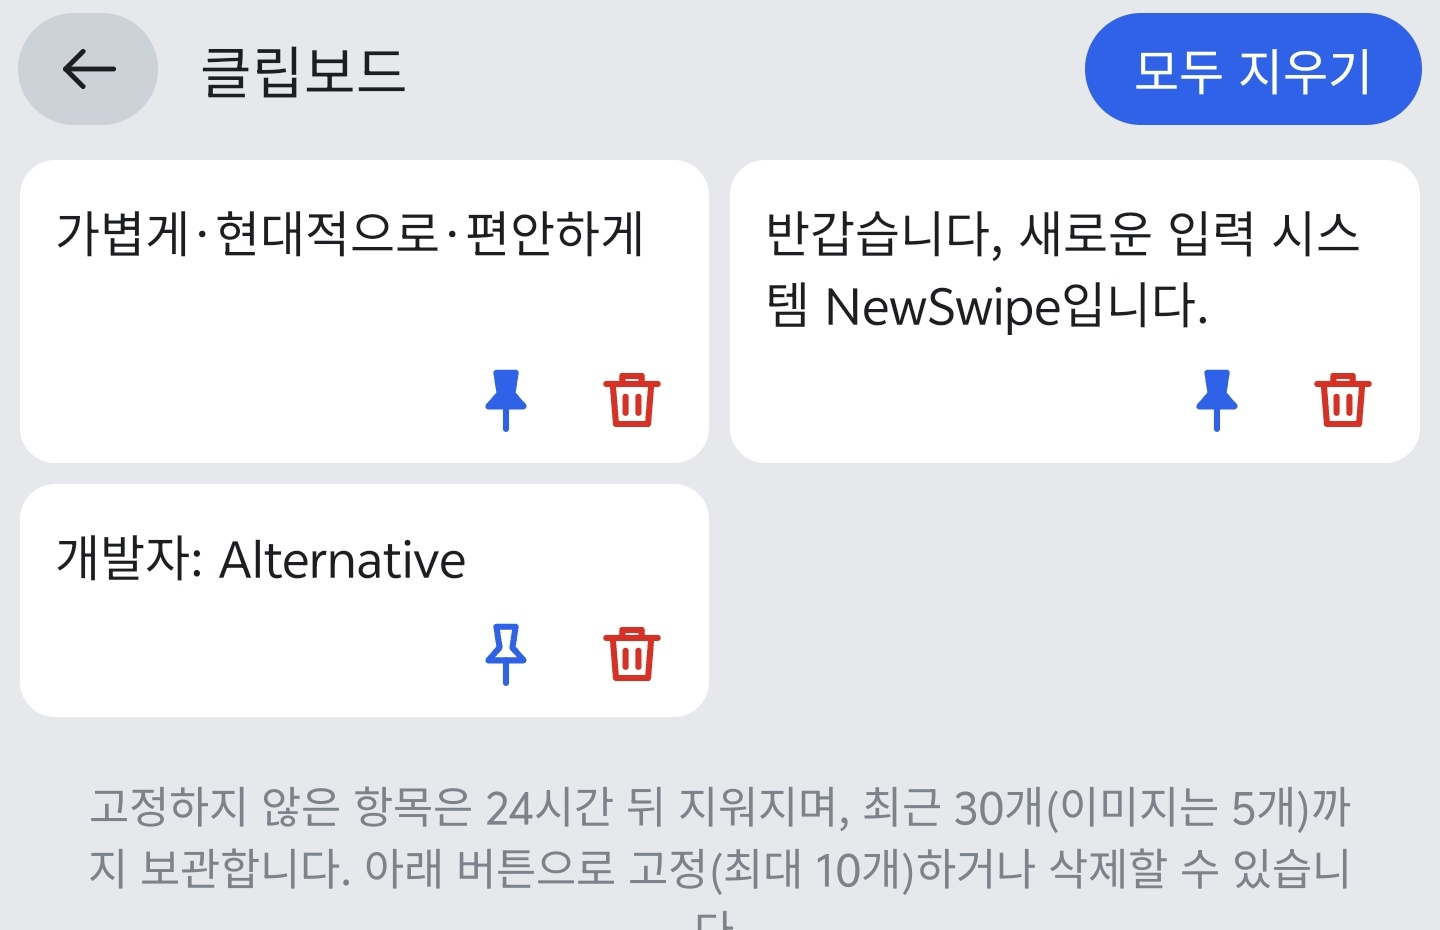
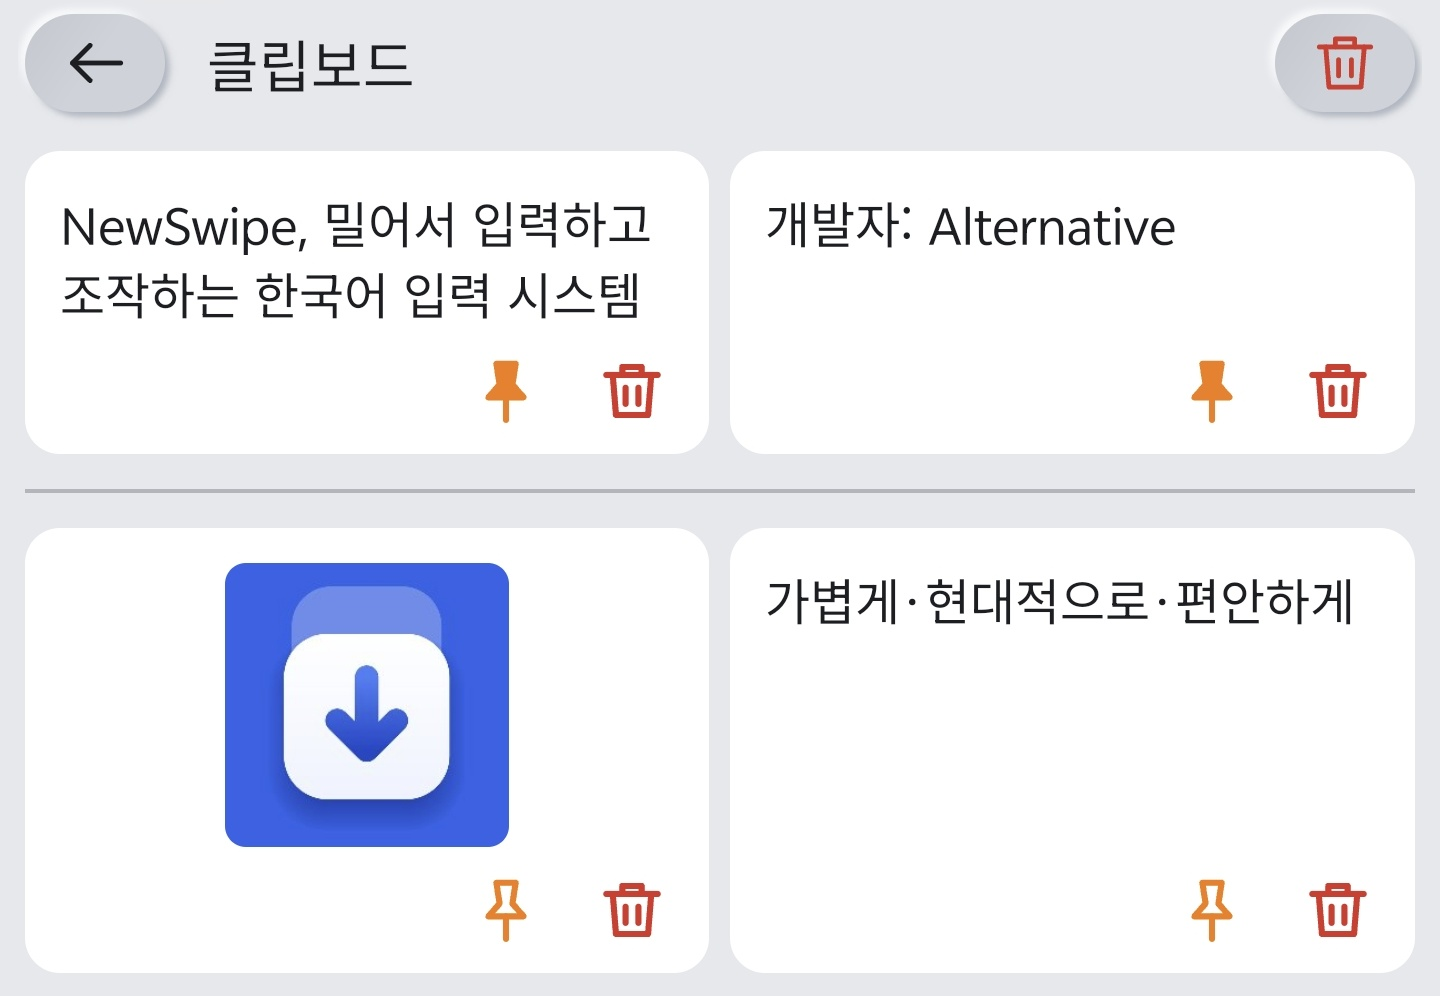
5번 스크린샷의 클립보드 화면을 최신 스크린샷으로 바꾸기
Claude-Session: https://claude.ai/code/session_01AwdWyHtkdh3yzUH3EHf2iE

diff --git a/docs/play-store/screenshots/src/shots.html b/docs/play-store/screenshots/src/shots.html
@@ -169,8 +169,8 @@
     <p>Emoji 18.0, 클립보드, Predictive Back Design,<br>시스템 자동완성 등 현대적인 기능들을 놓치지 마세요</p>
   </div>
 
-  <div class="card" style="left:100px; top:690px; width:880px;"><img src="img/emoji.jpg"></div>
-  <div class="card" style="left:100px; top:1325px; width:880px; height:462px;"><img src="img/clipboard.jpg"></div>
+  <div class="card" style="left:100px; top:630px; width:880px;"><img src="img/emoji.jpg"></div>
+  <div class="card" style="left:100px; top:1250px; width:880px;"><img src="img/clipboard.jpg"></div>
 </section>
 
 
